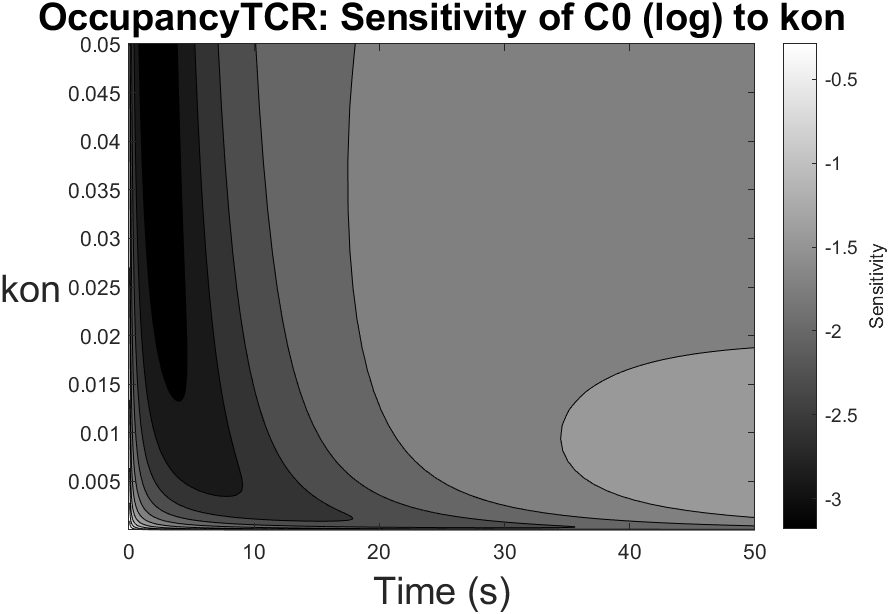
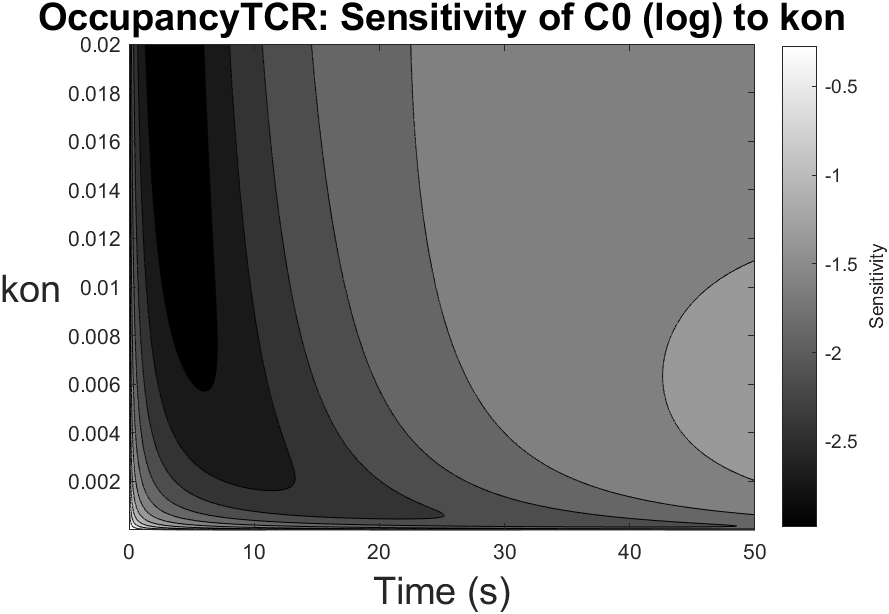
a

diff --git a/v.6/models/OccupancyTCR_options.m b/v.6/models/OccupancyTCR_options.m
@@ -7,7 +7,7 @@ model.param_values =[5e-5, 0.01];
 model.param_names = {'kon', 'koff'};
 
 % === PARAMETER RANGE VALUES ===
-model.range_type = 1;
+model.range_type = 3;
 % Choose one option:
 %   1 -> default range: 3 orders of magnitude below and 3 above the nominal parameter value.
 %   2 -> define [min, max] for each parameter and the number of points
